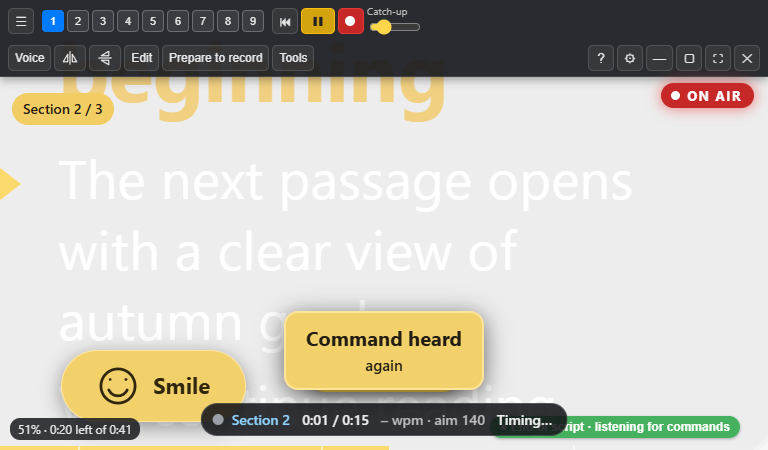
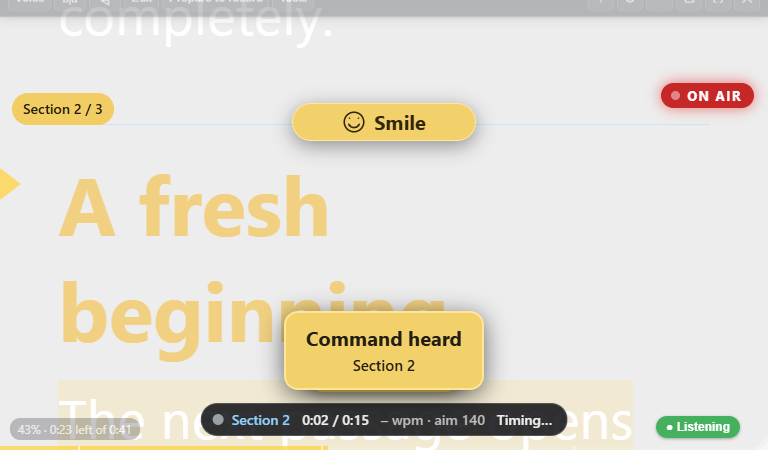
fix: place HUD cues above the reading line and recognise Retake variants

diff --git a/docs/FEATURE-GRID.html b/docs/FEATURE-GRID.html
@@ -73,7 +73,7 @@
 <tr data-status="Optional"><th scope="row">Listening modes</th><td data-label="Availability"><span class="badge optional">Optional</span></td><td data-label="Options and behaviour">In voice mode, Always listening, or Off.</td><td data-label="Dependencies and limits">Always listening keeps microphone recognition active while prompting is stopped.</td></tr>
 <tr data-status="Optional"><th scope="row">Wake word</th><td data-label="Availability"><span class="badge optional">Optional</span></td><td data-label="Options and behaviour">Prompter, Computer, Teleprompter or Director.</td><td data-label="Dependencies and limits">Wake-word recognition is speech recognition, not guaranteed keyword detection.</td></tr>
 <tr data-status="Optional"><th scope="row">Reading and display commands</th><td data-label="Availability"><span class="badge optional">Optional</span></td><td data-label="Options and behaviour">Go, pause, slower, faster, bigger, smaller, back, next and return to top.</td><td data-label="Dependencies and limits">Enable command listening; several phrases have documented aliases.</td></tr>
-<tr data-status="Optional"><th scope="row">Retake and edit commands</th><td data-label="Availability"><span class="badge optional">Optional</span></td><td data-label="Options and behaviour">Again, marker, back to marker, keeper and scrap that; bookmark flags are no longer drawn.</td><td data-label="Dependencies and limits">Ratings and markers describe the take log; they do not cut video automatically.</td></tr>
+<tr data-status="Optional"><th scope="row">Retake and edit commands</th><td data-label="Availability"><span class="badge optional">Optional</span></td><td data-label="Options and behaviour">Again/Retake, marker, back to marker, keeper and scrap that; exact wake-prefixed V take/VE take recognition fallbacks. No bookmark flags are drawn.</td><td data-label="Dependencies and limits">Ratings and markers describe the take log; they do not cut video automatically.</td></tr>
 <tr data-status="Optional"><th scope="row">Spoken section selection</th><td data-label="Availability"><span class="badge optional">Optional</span></td><td data-label="Options and behaviour">Select numbered sections, including natural spoken numbers.</td><td data-label="Dependencies and limits">A section number can act as a spoken slate and a retake instruction.</td></tr>
 <tr data-status="Dependent"><th scope="row">Explicit recording commands</th><td data-label="Availability"><span class="badge dependent">Dependent</span></td><td data-label="Options and behaviour">RC8: record, start recording, begin and record take confirm OBS before delivery; finish recording, and record on, off, pause or resume remain.</td><td data-label="Dependencies and limits">OBS integration and recording-control permission must be enabled. Go, practice and start practice run the prompter with OBS unchanged.</td></tr>
 <tr data-status="Optional"><th scope="row">Head-guide voice commands</th><td data-label="Availability"><span class="badge optional">Optional</span></td><td data-label="Options and behaviour">Guide on and guide off request a definite visible or hidden state.</td><td data-label="Dependencies and limits">Controls the manual guide; it does not detect a face.</td></tr>
@@ -118,7 +118,7 @@
 <tr data-status="Optional"><th scope="row">Script control commands</th><td data-label="Availability"><span class="badge optional">Optional</span></td><td data-label="Options and behaviour"><code>{prompter: ...}</code> supports documented display, pace and marker actions.</td><td data-label="Dependencies and limits">Only documented commands are supported.</td></tr>
 <tr data-status="Dependent"><th scope="row">Script recording commands</th><td data-label="Availability"><span class="badge dependent">Dependent</span></td><td data-label="Options and behaviour">Optional <code>{record: on}</code>, <code>{record: off}</code>, <code>{record: pause}</code> and <code>{record: resume}</code>.</td><td data-label="Dependencies and limits">Require enabled OBS recording controls; loading a script never executes them.</td></tr>
 <tr data-status="Optional"><th scope="row">Pace, notes and page directives</th><td data-label="Availability"><span class="badge optional">Optional</span></td><td data-label="Options and behaviour">Section WPM/targets, script pacing, <code>{mode: notes}</code> and <code>{page}</code>.</td><td data-label="Dependencies and limits">The script checker documents supported values and catches unknown directives.</td></tr>
-<tr data-status="Optional"><th scope="row">Floating HUD cues</th><td data-label="Availability"><span class="badge optional">Optional</span></td><td data-label="Options and behaviour">RC4: a gold short-cue pill during delivery; paused Review restores inline bracket directions.</td><td data-label="Dependencies and limits">No cue-induced script reflow; quoted Say speech and preparation notes remain distinct.</td></tr>
+<tr data-status="Optional"><th scope="row">Floating HUD cues</th><td data-label="Availability"><span class="badge optional">Optional</span></td><td data-label="Options and behaviour">RC10: a gold short-cue pill above the active reading line during delivery; compact on short windows. Paused Review restores inline bracket directions.</td><td data-label="Dependencies and limits">No cue-induced script reflow; quoted Say speech and preparation notes remain distinct.</td></tr>
 <tr data-status="Optional"><th scope="row">Head-relative pointing targets</th><td data-label="Availability"><span class="badge optional">Optional</span></td><td data-label="Options and behaviour">RC4: centres bisect each saved head-edge/prompter-edge gap, at a shared below-eye height; words render above fixed markers.</td><td data-label="Dependencies and limits">Local reference geometry, not live gesture detection. Actual camera, mirror and multi-screen placement require UAT.</td></tr>
 <tr data-status="Optional"><th scope="row">HUD controller visibility</th><td data-label="Availability"><span class="badge optional">Optional</span></td><td data-label="Options and behaviour">RC4: one optional action across pad, phone and mapped inputs; companion 0.2.1.6 adds a Display function with its own icon.</td><td data-label="Dependencies and limits">Capability-gated; no per-direction keys, recorder action or automatic profile replacement.</td></tr></tbody></table></div></section>
 <section id="section-6" class="feature-section">

diff --git a/src/client/hud-cues.js b/src/client/hud-cues.js
@@ -4,6 +4,21 @@ import { parsePointingCue } from "./pointing-cues.js";
 import { guideOutline, guidePose } from "./guide-pose.js";
 
 const clamp = ( value, low, high ) => Math.max( low, Math.min( high, value ) );
+
+// Keep the cue above the active reading line, preferring the nearest clear
+// position. Pointing targets keep their separate, saved head-relative geometry.
+export function hudCuePosition( view, size, line, obstacles = [] ) {
+	const gap = 8, left = 12, right = Math.max( left, view.width - size.width - 12 );
+	const preferred = Math.max( 8, line - size.height - gap );
+	const xs = [ ( view.width - size.width ) / 2, ...obstacles.flatMap( r => [ r.left - size.width - gap, r.right + gap ] ), left, right ].map( x => clamp( x, left, right ) );
+	const ys = [ preferred, ...obstacles.map( r => r.top - size.height - gap ) ].filter( y => y >= 8 && y <= preferred ).sort( ( a, b ) => b - a );
+	for ( const y of ys ) {
+		for ( const x of xs ) {
+			if ( !obstacles.some( r => x < r.right + gap && x + size.width > r.left - gap && y < r.bottom + gap && y + size.height > r.top - gap ) ) return { x, y };
+		}
+	}
+	return { x: clamp( ( view.width - size.width ) / 2, left, right ), y: preferred };
+}
 export function hudHeadGeometry( { width, height, screenX = 0, screenY = 0 }, guide = {}, mirrored = "off" ) {
 	const reference = guide.reference?.pose ? guide.reference : null;
 	const pose = guidePose( reference?.pose ?? guide.pose ?? guide );
@@ -124,10 +139,12 @@ export function createHudCues( root, { getState, getGuide, getCursor = () => nul
 			}
 		}
 		pill.hidden = false; target.hidden = !frozen.target;
+		pill.classList.toggle( "hud-cue-compact", innerHeight < 600 );
 		const w = pill.getBoundingClientRect().width, h = pill.getBoundingClientRect().height;
-		const line = innerHeight * readingAnchor(), bottom = innerHeight * .81;
-		pill.style.left = `${ clamp( innerWidth * .2 - w / 2, 16, innerWidth - w - 16 ) }px`;
-		pill.style.top = `${ Math.abs( bottom - line ) > h * 1.5 ? Math.min( bottom, innerHeight - h - 28 ) : 72 }px`;
+		const obstacles = [ ...doc.querySelectorAll( "#control-bar,#session-controls > *,#on-air" ) ].filter( el => el.getClientRects().length ).map( el => el.getBoundingClientRect() ).filter( r => r.bottom > 0 && r.top < innerHeight );
+		const cuePosition = hudCuePosition( { width: innerWidth, height: innerHeight }, { width: w, height: h }, innerHeight * readingAnchor(), obstacles );
+		pill.style.left = `${ cuePosition.x }px`;
+		pill.style.top = `${ cuePosition.y }px`;
 	}
 	window.addEventListener( "resize", () => { frozen = null; } );
 	return { update, prepare: () => { if ( dirty ) rebuild(); }, status: () => ( { supported: true, enabled, mode: lastMode ? "recording" : "review", visible: !pill.hidden, cue: active ? { text: active.text, direction: active.point?.direction ?? null, graphic: active.point?.graphic ?? null } : null } ) };

diff --git a/src/client/teleprompter.css b/src/client/teleprompter.css
@@ -29,6 +29,8 @@ body {
 #hud-delivery-cue { position: fixed; z-index: 999; pointer-events: none; display: flex; align-items: center; justify-content: center; gap: 14px; min-width: min(24vw, 340px); max-width: calc(100vw - 32px); padding: 12px 26px; min-height: 72px; border: 1px solid #ffe6a2; border-radius: 999px; background: #f3d16a; color: #30260d; box-shadow: 0 5px 20px #0006; font: 700 clamp(22px, 2.6vw, 42px)/1.15 "Segoe UI", sans-serif; }
 #hud-delivery-cue > span:last-child { text-wrap: balance; }
 #hud-delivery-cue svg { width: 42px; height: 42px; display: block; fill: none; stroke: currentColor; stroke-width: 2.1; stroke-linecap: round; stroke-linejoin: round; }
+#hud-delivery-cue.hud-cue-compact { min-height: 36px; padding: 6px 14px; gap: 8px; font-size: 20px; }
+#hud-delivery-cue.hud-cue-compact svg { width: 24px; height: 24px; }
 #md.hud-reading .direction .dir-text { display: none !important; }
 #md.hud-reading .hud-direction-only { display: none !important; }
 

diff --git a/src/client/teleprompter.js b/src/client/teleprompter.js
@@ -1720,6 +1720,7 @@ async function beginVoice( engine, deepgramKey ) {
 			audioDeviceId,
 			onStatus: ( status ) => {
 				showListeningStatus( status );
+				if ( status.type === "transcript" && voiceWordIdx === null ) voiceWordIdx = status.wordIdx;
 				if ( status.type === "closed" || status.type === "error" || status.type === "failed" ) {
 					if ( autoScrollActive ) stopAutoScrollSession();
 				} else if ( status.type === "device-fallback" ) {

diff --git a/src/client/voice-commands.js b/src/client/voice-commands.js
@@ -104,6 +104,8 @@ export const COMMANDS = [
 		phrases: [
 			"again",
 			"retake",
+			"v take",
+			"ve take",
 			"restart section",
 			"restart sections",
 			"take it again",

diff --git a/docs/FEATURE-GRID.md b/docs/FEATURE-GRID.md
@@ -99,7 +99,7 @@ Reference: [Speech engines and command phrases](guide/03-scrolling-and-voice.md)
 | Listening modes | Optional | In voice mode, Always listening, or Off. | Always listening keeps microphone recognition active while prompting is stopped. |
 | Wake word | Optional | Prompter, Computer, Teleprompter or Director. | Wake-word recognition is speech recognition, not guaranteed keyword detection. |
 | Reading and display commands | Optional | Go, pause, slower, faster, bigger, smaller, back, next and return to top. | Enable command listening; several phrases have documented aliases. |
-| Retake and edit commands | Optional | Again, marker, back to marker, keeper and scrap that; bookmark flags are no longer drawn. | Ratings and markers describe the take log; they do not cut video automatically. |
+| Retake and edit commands | Optional | Again/Retake, marker, back to marker, keeper and scrap that; exact wake-prefixed V take/VE take recognition fallbacks. No bookmark flags are drawn. | Ratings and markers describe the take log; they do not cut video automatically. |
 | Spoken section selection | Optional | Select numbered sections, including natural spoken numbers. | A section number can act as a spoken slate and a retake instruction. |
 | Explicit recording commands | Dependent | RC8: record, start recording, begin and record take confirm OBS before delivery; finish recording, and record on, off, pause or resume remain. | OBS integration and recording-control permission must be enabled. Go, practice and start practice run the prompter with OBS unchanged. |
 | Head-guide voice commands | Optional | Guide on and guide off request a definite visible or hidden state. | Controls the manual guide; it does not detect a face. |
@@ -149,7 +149,7 @@ Reference: [Script directives](SCRIPT-DIRECTIVES.md) and [AI script brief](AI-SC
 | Script recording commands | Dependent | Optional `{record: on}`, `{record: off}`, `{record: pause}` and `{record: resume}`. | Require enabled OBS recording controls; loading a script never executes them. |
 | Pace, notes and page directives | Optional | Section WPM/targets, script pacing, `{mode: notes}` and `{page}`. | The script checker documents supported values and catches unknown directives. |
 
-| Floating HUD cues | Optional | RC4: a gold short-cue pill during delivery; paused Review restores inline bracket directions. | No cue-induced script reflow; quoted Say speech and preparation notes remain distinct. |
+| Floating HUD cues | Optional | RC10: a gold short-cue pill above the active reading line during delivery; compact on short windows. Paused Review restores inline bracket directions. | No cue-induced script reflow; quoted Say speech and preparation notes remain distinct. |
 | Head-relative pointing targets | Optional | RC4: centres bisect each saved head-edge/prompter-edge gap, at a shared below-eye height; words render above fixed markers. | Local reference geometry, not live gesture detection. Actual camera, mirror and multi-screen placement require UAT. |
 | HUD controller visibility | Optional | RC4: one optional action across pad, phone and mapped inputs; companion 0.2.1.6 adds a Display function with its own icon. | Capability-gated; no per-direction keys, recorder action or automatic profile replacement. |
 

diff --git a/docs/RELEASE-1.3.0-rc.10.md b/docs/RELEASE-1.3.0-rc.10.md
@@ -47,6 +47,18 @@ The replay no longer makes that jump. Automated tests cover soft transitions,
 reading-line positioning, Retake ownership, take-log section identity, spoken
 Pause and explicit recovery. Actual microphone acceptance remains necessary.
 
+## Visible HUD cues and Retake recognition
+
+The gold HUD direction pill now sits above the active reading line, with a
+compact form in short windows and clearance from toolbar/session controls.
+Pointing targets retain their saved head-relative positions behind the words.
+Review keeps inline directions. This follows Joanne's 11 November placement
+request and supersedes only the earlier pill location.
+
+Observed Retake transcripts “V take” and “VE take” are accepted as exact
+wake-prefixed aliases. Ordinary speech without the wake word does not trigger
+them. The correct operator phrase remains “Prompter, retake”.
+
 ## References and follow-up
 
 Help, script-writing guidance, demo comments and the 269-row feature reference

diff --git a/docs/design/HUD-CUES-APPROVED.md b/docs/design/HUD-CUES-APPROVED.md
@@ -7,6 +7,16 @@ Preserve the approved composition and behaviour. Earlier mock coordinates,
 screen-third interpretations and collision-only hiding rules are superseded.
 Approval covers this design; it does not claim the feature is built or released.
 
+## Cue-pill placement update — 11 November 2026
+
+Joanne explicitly requested: “The HUD should really be at the top just above
+the sightline or I won't see it.” This supersedes the gold cue pill's earlier
+lower-screen placement only. Position it just above the active reading line,
+use a compact pill in short windows and avoid toolbar/session controls where
+space permits. Preserve the script layout and all pointing-target geometry,
+layers, lifecycle and Recording/Review rules below. Native candidate captures
+show the revised position for review; no new settings page is introduced.
+
 ## Locked placement and behaviour
 
 - **Side target centres:** halfway across each gap between the saved head-guide

diff --git a/docs/FEATURE-GRID-REVIEWS.md b/docs/FEATURE-GRID-REVIEWS.md
@@ -450,3 +450,10 @@ remain. Native tests and recorded recognition replay cover this correction.
 Reviewed help, authoring/schema, demos, roadmap and JL candidate archive together.
 The previous RC documents remain historical snapshots. Quick inline editing is
 planned; no new editor capability is claimed. Existing recordings are untouched.
+
+RC10 queued follow-up, 11 November: Joanne moved the gold HUD cue above the
+active sightline; only that pill's placement changes. Native compact captures
+and unit tests preserve pointing-target geometry and control clearance. Added
+exact wake-prefixed V take/VE take fallback aliases from the recorded trace,
+with ordinary-speech negative checks. The count remains 269; no training
+feature or speech-model adaptation is claimed.

diff --git a/docs/guide/03-scrolling-and-voice.md b/docs/guide/03-scrolling-and-voice.md
@@ -333,6 +333,13 @@ voluntary-support policy, with the company's privacy contact and ICO
 registration. Setting voice commands to Off does not stop voice following,
 scratch audio or a sound check; quit the app to stop all microphone use.
 
+### Recognised Retake variants
+
+RC10 accepts the observed “V take” and “VE take” forms after the wake word.
+Say “Prompter, retake” normally; these are recognition fallbacks, not phrases
+to learn or put in spoken script copy. A plain “V take” without the wake word
+stays ordinary speech.
+
 ## Stops and timed pauses
 
 Scroll mode honours `{stop}` and `{pause}` as manual holds and timed pauses

diff --git a/docs/marketing/VOICE-FLOW-RC10-SUPPLEMENT.md b/docs/marketing/VOICE-FLOW-RC10-SUPPLEMENT.md
@@ -5,6 +5,8 @@ existing recording/script snapshots and pointing/HUD plan.
 
 - Show Voice reaching a section-ending stop: the next spoken opening appears
   at the reading line and follows without another Go. The heading stays above.
+- Capture the gold HUD direction just above the reading line. The pointing
+  targets retain their established head-relative positions.
 - Before speaking that next opening, demonstrate Again returning to the section
   just completed. After delivering the new passage, Again retakes that section.
 - Demonstrate an explicit spoken Pause and Go as deliberate controls. Explain

diff --git a/readme.md b/readme.md
@@ -170,6 +170,8 @@ and listening continues. Retake returns to the completed section until the next
 passage is spoken. Scroll still honours stops. Repeated-heading matches cannot
 jump into another section through unordered matching; explicit Resync remains.
 Toolbar groups wrap on small displays so window-sizing controls stay visible.
+HUD directions sit above the reading line; observed wake-prefixed Retake
+variants have exact fallbacks.
 See [RC10 notes](docs/RELEASE-1.3.0-rc.10.md).
 
 ### 1.3.0 RC9 — paragraph spacing and voice continuity
